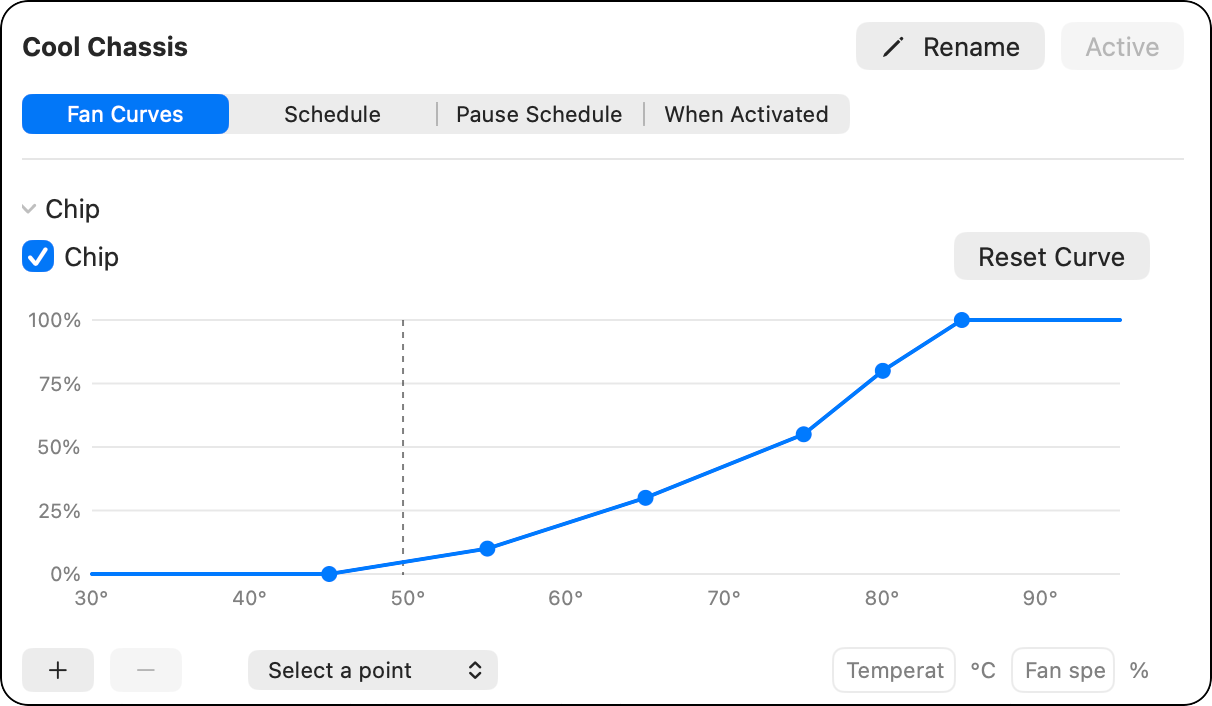
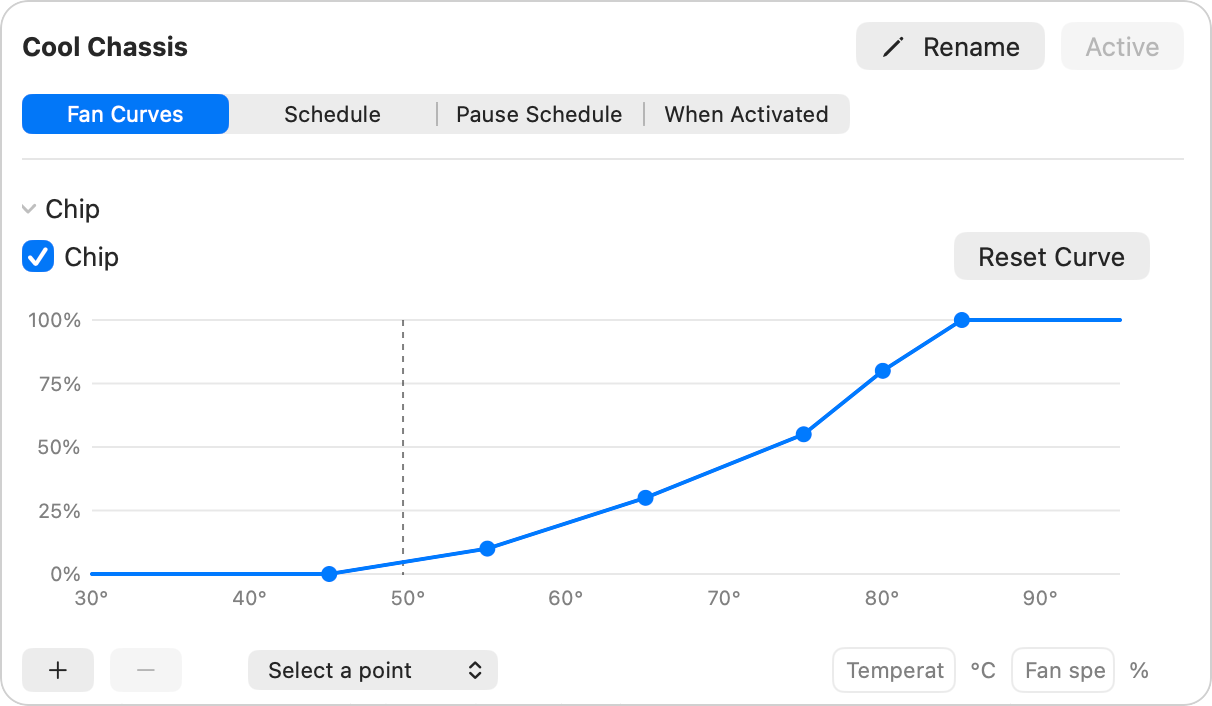
Soften screenshot outline to requested gray

Changed region(s): [[0.0, 0.966, 1.0, 1.0], [0.9769, 0.0, 1.0, 0.0312], [0.0, 0.0, 0.0305, 0.0312]]

diff --git a/docs/GITHUB_RELEASE.md b/docs/GITHUB_RELEASE.md
@@ -27,7 +27,7 @@ Before initial publication, all 38 reachable Git commits and 629 unique blobs we
 
 The README uses the owner's supplied screenshots of Cool Chassis: its chip curve editor and native menu with live temperature readings. Rounded corner masks preserve the original screenshot content and resolution; the menu's surrounding desktop margin is cropped. No personal information or schedules are visible. PNG ancillary metadata was stripped, and both images were visually reviewed.
 
-The public-content checker permits only specifically reviewed image paths and validates PNG structure, checksums and allowed non-text chunks. Other binary artifacts remain rejected. The images are shown side by side at the same display height, with the updated menu screenshot at a readable size and a clearly visible black outline around the rounded curve image. Customizable temperature readings inside the menu are documented explicitly.
+The public-content checker permits only specifically reviewed image paths and validates PNG structure, checksums and allowed non-text chunks. Other binary artifacts remain rejected. The images are shown side by side at the same display height, with the updated menu screenshot at a readable size and a subtle RGB 197, 197, 197 outline around the rounded curve image. Customizable temperature readings inside the menu are documented explicitly.
 
 ## Remaining work
 
